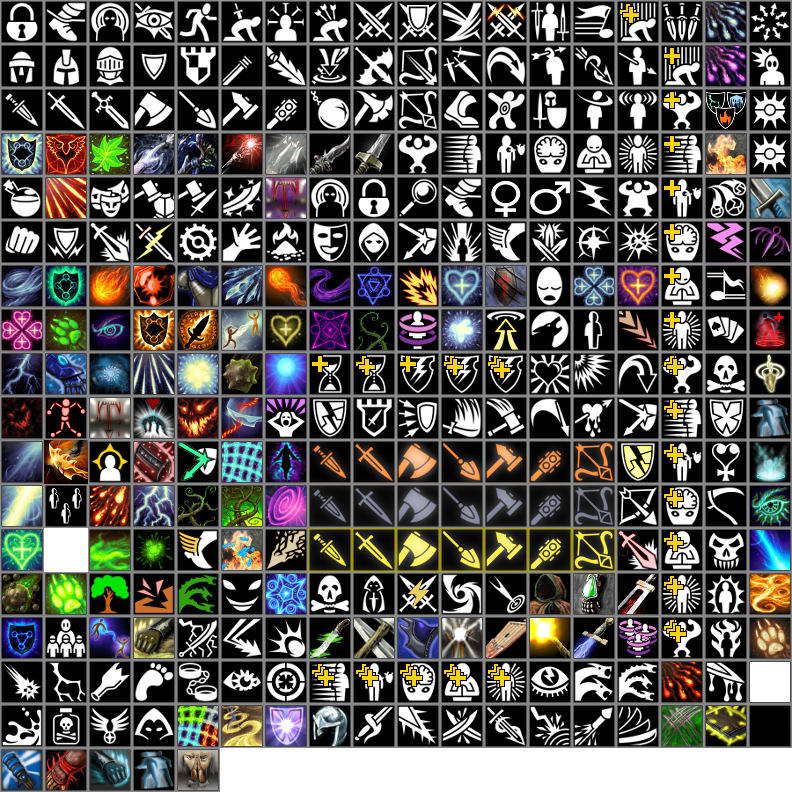
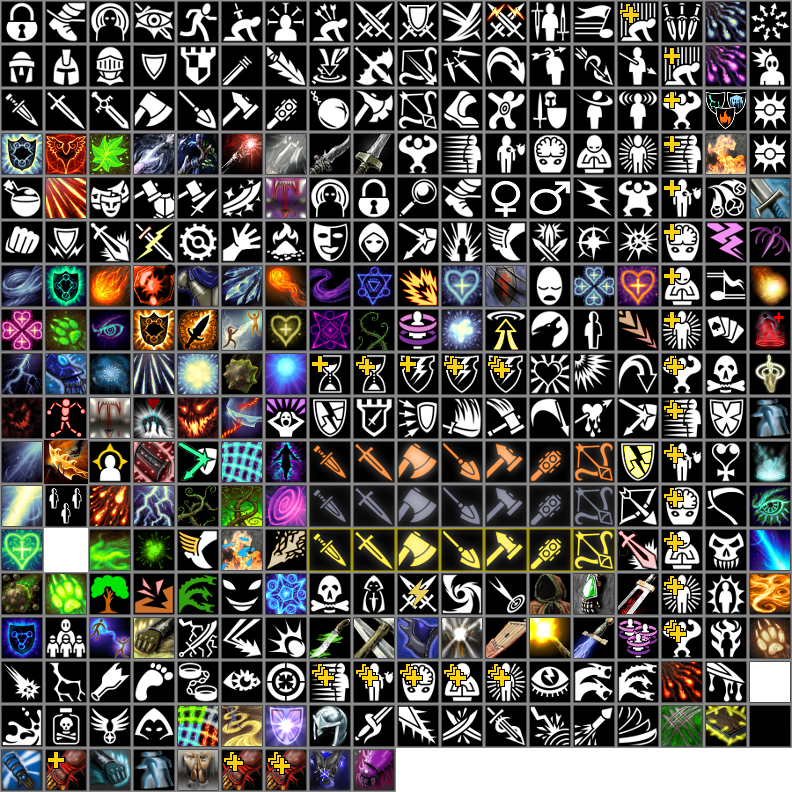
more work on monks; more abilities

Changed region(s): [[0.2727, 0.9394, 0.5152, 1.0], [0.0606, 0.9394, 0.0909, 0.9697]]

diff --git a/core/scripts/abilities/stunningBlow.js b/core/scripts/abilities/stunningBlow.js
@@ -1,0 +1,73 @@
+function canActivate(game, parent) {
+	if (!parent.timer.canAttack()) return false;
+	
+	var weapon = parent.getMainHandWeapon();
+	
+	return weapon.getTemplate().getBaseWeapon().getName() == "Unarmed";
+}
+
+function onActivate(game, slot) {
+   var creatures = game.ai.getAttackableCreatures(slot.getParent());
+
+   var targeter = game.createListTargeter(slot);
+   targeter.addAllowedCreatures(creatures);
+   targeter.activate();
+}
+
+function onTargetSelect(game, targeter) {
+   targeter.getSlot().activate();
+   
+   var ability = targeter.getSlot().getAbility();
+
+   // perform the attack in a new thread as the standardAttack will
+   // block
+   var cb = ability.createDelayedCallback("performAttack");
+   cb.addArgument(targeter);
+   cb.start();
+}
+
+function performAttack(game, targeter) {
+	var parent = targeter.getParent();
+	var target = targeter.getSelectedCreature();
+	
+	if (game.standardAttack(parent, target)) {
+		// attack suceeded
+		var checkDC = 50 + 2 * (parent.stats.getWis() - 10) +
+			parent.roles.getLevel("Monk") * 2;
+		
+		if (!target.stats.getReflexResistanceCheck(checkDC)) {
+			// target failed check
+			applyEffet(game, parent, target);
+			
+			game.addMessage("red", parent.getName() + " succeeded on Stunning Blow against " + target.getName() + ".");
+		} else {
+			game.addMessage("red", parent.getName() + " failed on Stunning Blow against " + target.getName() + ".");
+		}
+	} else {
+		game.addMessage("red", parent.getName() + " missed on Stunning Blow attempt.");
+	}
+}
+
+function applyEffect(game, parent, target) {
+	if ( target.stats.has("ImmobilizationImmunity")) {
+		game.addMessage("blue", target.getName() + " is immune.");
+		return;
+	}
+		
+	var effect = slot.createEffect();
+	effect.setDuration(2);
+	effect.setTitle("Stunning Blow");
+	effect.getBonuses().add("Immobilized");
+	effect.getBonuses().add("Helpless");
+	effect.addNegativeIcon("items/enchant_death_small");
+	
+	var g1 = game.getBaseParticleGenerator("sparkle");
+	g1.setDurationInfinite();
+	g1.setRotationSpeedDistribution(game.getUniformDistribution(100.0, 200.0));
+	g1.setPosition(target.getLocation());
+	g1.setBlueDistribution(game.getFixedDistribution(0.0));
+	g1.setGreenDistribution(game.getFixedDistribution(0.0));
+	effect.addAnimation(g1);
+	
+	target.applyEffect(effect);
+}
